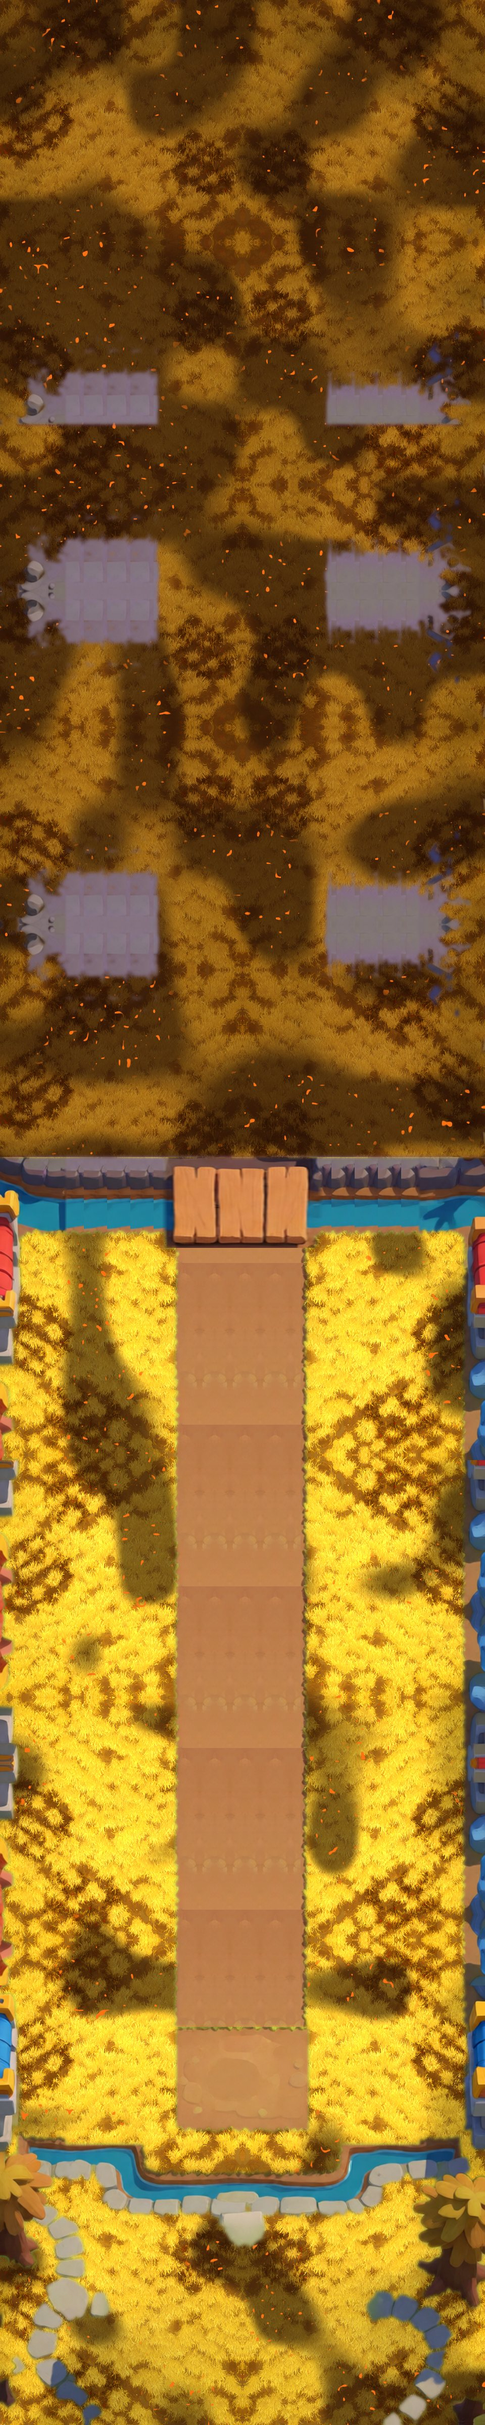
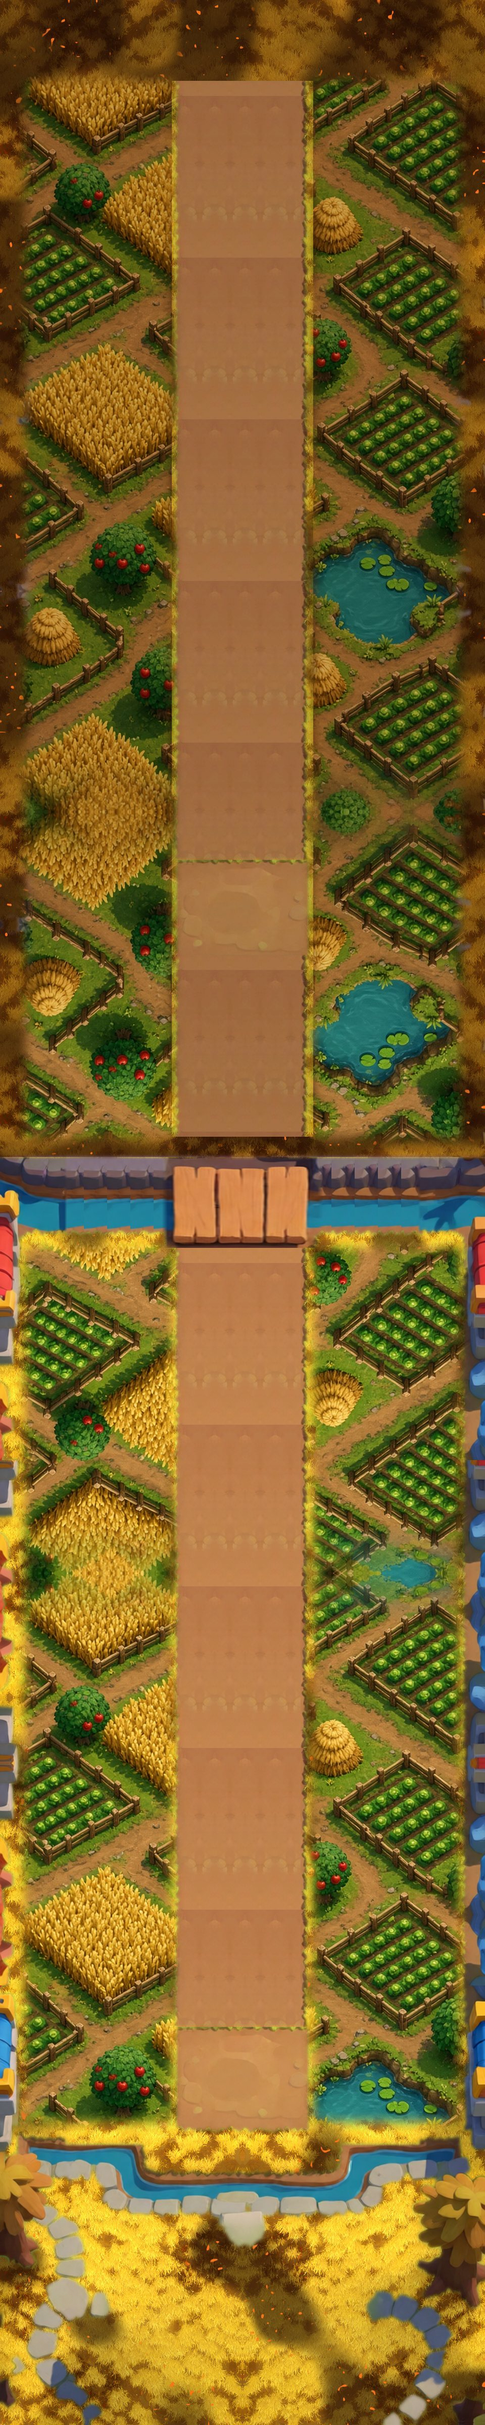
beta v28: farm map art, medieval barns, guarded-barn mechanic by difficulty; cloud save client

diff --git a/beta/cloud.js b/beta/cloud.js
@@ -1,0 +1,170 @@
+// Royal Blight — optional Account / Cloud Save (v27+). The local save (localStorage) stays the source of truth;
+// the cloud is only a backup/sync target while signed in. Everything here is best-effort and works offline.
+(function () {
+  'use strict';
+  // ======== the ONE place to configure the API ========
+  const RB_API_BASE = window.RB_API_BASE_OVERRIDE || 'https://xmg.xstreamflex.com/rbapi';
+  // =====================================================
+  const KEY = 'rb-cloud', AUTOSYNC_MS = 4000;
+  const st = (() => { try { return JSON.parse(localStorage.getItem(KEY)) || {}; } catch (e) { return {}; } })();
+  // st: { token, user, version (last synced cloud version), syncedHash, lastSync, localTs, conflict }
+  const save = () => { try { localStorage.setItem(KEY, JSON.stringify(st)); } catch (e) {} };
+  const S = () => window.Story;
+  const h32 = s => { let h = 0x811c9dc5; for (let i = 0; i < s.length; i++) { h ^= s.charCodeAt(i); h = Math.imul(h, 16777619); } return (h >>> 0).toString(36); };
+  const localStr = () => (S() && S().exportSave) ? S().exportSave() : null;
+  const isFresh = () => { const sv = S() && S().save && S().save(); return !sv || (!sv.xp && !sv.gold && !Object.keys(sv.missions || {}).length); };
+  const dirty = () => { const l = localStr(); return !!l && h32(l) !== st.syncedHash; };
+  let status = st.token ? 'idle' : 'signedout', busy = false, timer = null, msg = '';
+
+  async function api(method, path, body) {
+    const r = await fetch(RB_API_BASE + '/index.php?r=' + path, {
+      method, mode: 'cors', cache: 'no-store', credentials: 'omit',
+      headers: Object.assign({ 'Content-Type': 'application/json' }, st.token ? { Authorization: 'Bearer ' + st.token } : {}),
+      body: body ? JSON.stringify(body) : undefined });
+    let j = null; try { j = await r.json(); } catch (e) {}
+    if (r.status === 401 && st.token && !/^(login|register)$/.test(path)) { signedOut('Session expired — please sign in again.'); }
+    return { status: r.status, j: j || { ok: false, error: 'bad_response' } };
+  }
+  function signedOut(m) { delete st.token; delete st.user; st.version = 0; st.syncedHash = null; st.conflict = null; save(); status = 'signedout'; msg = m || ''; render(); }
+  function markSynced(version, ts) { st.version = version; st.syncedHash = h32(localStr() || ''); st.lastSync = Date.now(); st.localTs = ts; st.conflict = null; save(); status = 'synced'; }
+  function applyCloud(sv) {
+    const r = S().importSave(sv.data);
+    if (r !== true) { status = 'error'; msg = 'Cloud save could not be loaded: ' + r; return false; }
+    markSynced(sv.version, sv.updatedAt);
+    try { const scr = document.getElementById('story-screen') || document.getElementById('screen-story'); if (scr && !scr.classList.contains('hidden')) S().openMap(); } catch (e) {}
+    return true;
+  }
+  async function push(force) {
+    const data = localStr(); if (!data) return;
+    const ts = st.localTs || Date.now();
+    const { status: s, j } = await api('PUT', 'save', { data, baseVersion: st.version | 0, updatedAt: ts, force: !!force });
+    if (s === 200) { markSynced(j.save.version, j.save.updatedAt); if (j.conflict) msg = 'Replaced an older cloud copy (newest wins).'; }
+    else if (s === 409) { st.conflict = j.save; save(); status = 'conflict'; }
+    else throw new Error(j.error || 'http ' + s);
+  }
+
+  // Main sync step. Decides pull / push / conflict from (cloud version vs. last synced version) x (local dirty?).
+  async function sync(reason) {
+    if (!st.token || busy || !S()) return render();
+    if (!navigator.onLine) { status = 'offline'; return render(); }
+    busy = true; status = 'syncing'; render();
+    try {
+      const g = await api('GET', 'save');
+      if (g.status !== 200) throw new Error(g.j.error || 'http ' + g.status);
+      const cloud = g.j.save, ld = dirty();
+      if (!cloud) await push(false);
+      else if (cloud.version === (st.version | 0)) { if (ld) await push(false); else status = 'synced', st.lastSync = Date.now(), save(); }
+      else if (!ld || (isFresh() && !st.syncedHash)) applyCloud(cloud);           // cloud moved on, local untouched: pull
+      else if (h32(cloud.data) === h32(localStr())) markSynced(cloud.version, cloud.updatedAt);
+      else { st.conflict = cloud; save(); status = 'conflict'; }                     // both changed: ask the player
+    } catch (e) { status = navigator.onLine ? 'error' : 'offline'; msg = status === 'error' ? 'Sync failed (' + (e.message || 'network') + '). Your local save is safe.' : ''; }
+    busy = false; render();
+  }
+  async function resolve(choice) {   // 'local' | 'cloud' | 'newest'
+    const c = st.conflict; if (!c) return;
+    if (choice === 'newest') choice = (st.localTs || 0) >= (c.updatedAt || 0) ? 'local' : 'cloud';
+    busy = true; status = 'syncing'; render();
+    try { if (choice === 'cloud') applyCloud(c); else { st.version = c.version; await push(true); } msg = choice === 'cloud' ? 'Loaded the cloud save.' : 'Uploaded this device\'s save.'; }
+    catch (e) { status = 'error'; msg = 'Sync failed. Your local save is safe.'; }
+    busy = false; render();
+  }
+
+  // ------------------------------------------------------------ hooks: local save changes -> debounced autosync
+  function onLocalChange() {
+    if (!dirty()) return;   // e.g. our own cloud import
+    st.localTs = Date.now(); save();
+    if (!st.token) return;
+    status = 'pending'; render();
+    clearTimeout(timer); timer = setTimeout(() => sync('autosave'), AUTOSYNC_MS);
+  }
+  function wrapPersist() {   // story.js calls persist() via setDiff / mission end; we observe localStorage writes of its key
+    const orig = Storage.prototype.setItem;
+    Storage.prototype.setItem = function (k, v) { const r = orig.apply(this, arguments); if (this === window.localStorage && k === 'royalBlight.story') setTimeout(onLocalChange, 0); return r; };
+  }
+
+  // ------------------------------------------------------------ UI
+  const esc = s => String(s == null ? '' : s).replace(/[&<>"']/g, c => ({ '&': '&amp;', '<': '&lt;', '>': '&gt;', '"': '&quot;', "'": '&#39;' })[c]);
+  const ago = t => { if (!t) return 'never'; const s = Math.round((Date.now() - t) / 1000); return s < 60 ? 'just now' : s < 3600 ? Math.round(s / 60) + ' min ago' : s < 86400 ? Math.round(s / 3600) + ' h ago' : new Date(t).toLocaleDateString(); };
+  const LABEL = { signedout: 'Not signed in — saves stay on this device', idle: 'Signed in', syncing: 'Syncing…', synced: 'Synced ✓', pending: 'Changes waiting to sync', offline: 'Offline — will sync when back online', error: 'Sync error', conflict: '⚠ Cloud and device saves differ' };
+  const btn = (id, txt, cls) => `<button id="${id}" class="w-full py-2 rounded-lg font-black text-xs uppercase active:scale-95 ${cls || 'bg-slate-700 text-slate-100'}">${txt}</button>`;
+  const inp = (id, type, ph, ac) => `<input id="${id}" type="${type}" placeholder="${ph}" autocomplete="${ac}" class="w-full px-3 py-2 rounded-lg bg-slate-900 border border-slate-600 text-slate-100 text-sm" maxlength="200">`;
+  let modal = null;
+  function render() {
+    const badge = document.getElementById('cloud-summary');
+    if (badge) badge.textContent = st.token ? '(' + (LABEL[status] || '').replace(/ —.*/, '') + ')' : '(off)';
+    if (!modal || modal.classList.contains('hidden')) return;
+    const u = st.user || {}, c = st.conflict;
+    let html = `<div class="text-[11px] font-bold ${status === 'conflict' || status === 'error' ? 'text-amber-300' : 'text-slate-300'}">${esc(LABEL[status] || status)}</div>`;
+    if (msg) html += `<div class="text-[10px] text-slate-400">${esc(msg)}</div>`;
+    if (!st.token) {
+      html += inp('cl-login', 'text', 'Email or username', 'username') + inp('cl-pass', 'password', 'Password (8+ characters)', 'current-password') +
+        `<div class="grid grid-cols-2 gap-2">${btn('cl-signin', 'Sign in', 'bg-amber-500 text-slate-950')}${btn('cl-signup', 'Create account')}</div>` +
+        `<p class="text-[10px] text-slate-400 leading-snug">Optional. Back up your Story progress and continue on another device. Without an account everything stays on this device.</p>`;
+    } else {
+      html += `<div class="text-xs text-slate-100">Account: <b>${esc(u.email || u.username || 'device account')}</b></div>` +
+        `<div class="text-[10px] text-slate-400">Last sync: ${esc(ago(st.lastSync))} · cloud version ${st.version | 0}</div>`;
+      if (c) html += `<div class="rounded-lg border border-amber-500/60 p-2 space-y-2"><div class="text-[10px] text-slate-200 leading-snug">This device: changed ${esc(ago(st.localTs))}.<br>Cloud: saved ${esc(ago(c.updatedAt))} (version ${c.version}).</div>` +
+        btn('cl-newest', 'Keep newest', 'bg-amber-500 text-slate-950') + `<div class="grid grid-cols-2 gap-2">${btn('cl-keeplocal', 'Keep this device')}${btn('cl-keepcloud', 'Keep cloud')}</div></div>`;
+      else html += btn('cl-sync', 'Sync now', 'bg-amber-500 text-slate-950');
+      html += `<details class="text-left"><summary class="text-[10px] text-slate-400 cursor-pointer">Account options</summary><div class="space-y-2 mt-2">` +
+        inp('cl-cur', 'password', 'Current password', 'current-password') + inp('cl-new', 'password', 'New password', 'new-password') + btn('cl-chpw', 'Change password') +
+        btn('cl-logout', 'Sign out (keeps local save)') + btn('cl-del', 'Delete account + cloud save', 'bg-red-800 text-white') + `</div></details>`;
+    }
+    modal.querySelector('#cl-body').innerHTML = html;
+    const on = (id, f) => { const e = modal.querySelector('#' + id); if (e) e.onclick = f; };
+    const val = id => (modal.querySelector('#' + id) || {}).value || '';
+    const auth = async path => {
+      const login = val('cl-login').trim(), password = val('cl-pass');
+      if (!login || password.length < 8) { msg = 'Enter email/username and a password of 8+ characters.'; return render(); }
+      if (!navigator.onLine) { msg = 'You are offline.'; return render(); }
+      const body = path === 'login' ? { login, password } : (login.includes('@') ? { email: login, password } : { username: login, password });
+      try {
+        const { status: s, j } = await api('POST', path, body);
+        if (j.ok) { st.token = j.token; st.user = j.user; st.version = 0; st.syncedHash = null; save(); msg = ''; status = 'idle'; sync('signin'); }
+        else msg = ({ invalid_credentials: 'Wrong email/username or password.', account_exists: 'That account already exists — sign in instead.', rate_limited: 'Too many attempts, try again later.', invalid_username: 'Username: 3-24 letters, numbers, _ . -', invalid_email: 'That email looks invalid.', invalid_password: 'Password must be 8+ characters.' })[j.error] || 'Error: ' + j.error;
+      } catch (e) { msg = 'Could not reach the server.'; }
+      render();
+    };
+    on('cl-signin', () => auth('login')); on('cl-signup', () => auth('register'));
+    on('cl-sync', () => sync('manual'));
+    on('cl-newest', () => resolve('newest')); on('cl-keeplocal', () => resolve('local')); on('cl-keepcloud', () => resolve('cloud'));
+    on('cl-logout', async () => { try { await api('POST', 'logout'); } catch (e) {} signedOut('Signed out. Your progress stays on this device.'); });
+    on('cl-chpw', async () => {
+      try { const { j } = await api('POST', 'password', { currentPassword: val('cl-cur'), newPassword: val('cl-new') });
+        msg = j.ok ? 'Password changed (other devices signed out).' : ({ invalid_credentials: 'Current password is wrong.', invalid_password: 'New password must be 8+ characters.' })[j.error] || 'Error: ' + j.error; } catch (e) { msg = 'Could not reach the server.'; }
+      render();
+    });
+    on('cl-del', async () => {
+      if (!confirm('Delete your account and cloud save? Your progress on THIS device is kept.')) return;
+      const password = st.user && st.user.anonymous ? '' : prompt('Enter your password to confirm:');
+      if (password === null) return;
+      try { const { j } = await api('DELETE', 'account', { password, confirm: 'DELETE' }); if (j.ok) return signedOut('Account deleted. Local save kept.'); msg = j.error === 'invalid_credentials' ? 'Wrong password.' : 'Error: ' + j.error; } catch (e) { msg = 'Could not reach the server.'; }
+      render();
+    });
+  }
+  function buildUI() {
+    const settings = document.getElementById('modal-settings'), done = document.getElementById('settings-done');
+    if (!settings || !done) return;
+    const b = document.createElement('button');
+    b.id = 'btn-cloud'; b.className = 'w-full max-w-xs mt-3 py-2 rounded-xl bg-slate-700 text-slate-100 font-black text-xs uppercase tracking-wider active:scale-95';
+    b.innerHTML = '☁ Account / Cloud Save <span id="cloud-summary" class="normal-case font-bold text-[10px] text-slate-300"></span>';
+    settings.insertBefore(b, done);
+    modal = document.createElement('div');
+    modal.id = 'modal-cloud'; modal.className = 'hidden absolute inset-0 z-[57] bg-black/90 backdrop-blur-md flex flex-col items-center justify-center p-6 text-center';
+    modal.innerHTML = '<h2 class="text-2xl font-black text-amber-300 uppercase tracking-wider mb-3">Cloud Save</h2>' +
+      '<div id="cl-body" class="w-full max-w-xs bg-slate-800/90 rounded-xl p-3 border border-slate-700 space-y-2 text-left"></div>' +
+      '<button id="cloud-done" class="w-full max-w-xs mt-4 py-3 rounded-xl bg-amber-500 text-slate-950 font-black text-sm uppercase">Done</button>';
+    settings.parentNode.appendChild(modal);
+    b.onclick = () => { modal.classList.remove('hidden'); msg = ''; render(); sync('open'); };
+    modal.querySelector('#cloud-done').onclick = () => modal.classList.add('hidden');
+    render();
+  }
+
+  window.Cloud = { sync, resolve, state: () => Object.assign({ status }, st, { token: st.token ? '***' : null }), API: RB_API_BASE };
+  wrapPersist();
+  const init = () => { buildUI(); if (st.token) sync('startup'); };
+  if (document.readyState === 'loading') document.addEventListener('DOMContentLoaded', init); else init();
+  window.addEventListener('online', () => sync('online'));
+  window.addEventListener('offline', () => { if (st.token) { status = 'offline'; render(); } });
+  document.addEventListener('visibilitychange', () => { if (document.visibilityState === 'visible' && st.token && (dirty() || Date.now() - (st.lastSync || 0) > 60000)) sync('resume'); });
+})();

diff --git a/beta/story.js b/beta/story.js
@@ -5,14 +5,14 @@
   'use strict';
   // ------------------------------------------------------------------ SAVE (localStorage, versioned)
   const SAVE_KEY = 'royalBlight.story', SAVE_V = 2;   // v27: v2 = illustrated map + new color rules (mapV)
-  const freshSave = () => ({ v: SAVE_V, gold: 0, xp: 0, missions: {}, unlocks: ['pawn:sword', 'archer:long', 'worker', 'turret'], seen: [], created: Date.now(), mapV: 2 });
+  const freshSave = () => ({ v: SAVE_V, gold: 0, xp: 0, missions: {}, unlocks: ['pawn:sword', 'archer:long', 'worker', 'turret'], seen: [], created: Date.now(), mapV: 2, diff: 'normal' });
   function migrate(s) {
     if (!s || typeof s !== 'object') return freshSave();
     const f = freshSave();
     const out = { v: SAVE_V, gold: Math.max(0, Math.floor(+s.gold || 0)), xp: Math.max(0, Math.floor(+s.xp || 0)),
       missions: {}, unlocks: Array.isArray(s.unlocks) ? s.unlocks.filter(x => typeof x === 'string').slice(0, 500) : f.unlocks,
       seen: Array.isArray(s.seen) ? s.seen.filter(x => typeof x === 'string').slice(0, 500) : [], created: +s.created || Date.now(),
-      mapV: 2, migratedFrom: (s.v | 0) < 2 ? (s.v | 0) || 1 : (s.migratedFrom || 0) };   // v1 -> v2: progress is derived from wins, so nothing is lost
+      diff: ['easy', 'normal', 'hard'].includes(s.diff) ? s.diff : 'normal', mapV: 2, migratedFrom: (s.v | 0) < 2 ? (s.v | 0) || 1 : (s.migratedFrom || 0) };   // v1 -> v2: progress is derived from wins, so nothing is lost
     f.unlocks.forEach(u => { if (!out.unlocks.includes(u)) out.unlocks.push(u); });
     if (s.missions && typeof s.missions === 'object') for (const [id, m] of Object.entries(s.missions)) {
       if (!/^[A-Z0-9_]{2,8}$/.test(id) || !m) continue;
@@ -81,7 +81,7 @@
     M04: { region: 'eastmarch', name: 'Recapture the Farms', type: 'ATK + CUR', map: 'farmland', gold: 180, reward: ['G2', 'X1'], unlock: ['bonus:worker_east'],
       ai: { level: 'normal', strat: 'turtle', income: 0.85 },
       brief: 'Take back the scorched farmland one farmstead at a time. Push into each farm and hold it to replant it; every held farm pays bonus gold. Watch for fire-lines flaring across the rows.',
-      objectives: [{ k: 'hold', name: 'Farmsteads', secs: 14, mode: 'sequence', pay: 60, zones: [{ y: 1420, h: 80, name: 'South farm' }, { y: 1110, h: 80, name: 'Mill farm' }, { y: 800, h: 80, name: 'East farm' }] }],
+      objectives: [{ k: 'hold', name: 'Farmsteads', guards: true, secs: 14, mode: 'sequence', pay: 60, zones: [{ y: 1420, h: 80, name: 'South farm' }, { y: 1110, h: 80, name: 'Mill farm' }, { y: 800, h: 80, name: 'East farm' }] }],
       hazards: [{ k: 'fireline', every: 16, warn: 2.2, dur: 4, dps: 14, h: 46 }], noNexusWin: true, timeLimit: 900,
       stars: ['Recapture all 3 farms', 'Nexus above 50%', 'Hold all 3 farms at the same time'],
       before: [['Vesper', 'Take the south farm first. Felix never guards it.']], after: [['Farmer', '(presses one seed into the ash)'], ['Rufus', 'That\u2019s how it starts. One field at a time.']], cut: ['ch1_m04_fields_reclaimed'] },
@@ -184,9 +184,32 @@
     setTimeout(() => toast(m.name.toUpperCase(), '#fde68a'), 500);
     return true;
   };
+  // v28 guarded barns: enemy pawns stand guard at every farmstead. Felix's pawns muster at HALF rate while the
+  // guards hold; each guard killed raises the enemy pawn rate one step, back to full when all are down.
+  // Guards per farm by difficulty: Easy 1, Normal 2, Hard 3 (step = 50% / total guards).
+  const GUARDS = { easy: 1, normal: 2, hard: 3 };
+  function spawnBarnGuards(o) {
+    const R = S.R, per = GUARDS[SAVE.diff] || 2; R.guards = []; R.barnRate = 0.5; R.pawnAcc = 0; R.guardsDown = 0;
+    o.zones.forEach((z, zi) => { for (let g = 0; g < per; g++) {
+      const u = spawnUnit('pawn', 'red', 'C', 0); u.x = LANE_X + (g - (per - 1) / 2) * 34; u.y = z.y - 10 + (g % 2) * 14;
+      u.speed = 0; u.guard = zi; u.variant = 'shield'; u.maxHp = u.hp = Math.round(u.hp * 1.8); u.lagHp = u.hp; u.atk *= 1.2; u.resist = Object.assign({}, u.resist, { ranged: Math.max(u.resist.ranged || 0, 0.3) }); R.guards.push(u); } });
+    const inc = { easy: 1.0, normal: 1.3, hard: 1.6 }[SAVE.diff] || 1.3;   // v28: barn missions scale the enemy economy with difficulty
+    AI_LEVELS.story.income *= inc; if (SAVE.diff === 'hard') AI_LEVELS.story.think = AI_LEVELS.hard.think;
+  }
+  S.pawnsFor = function (team) {           // pawns per wave (index.html triggerWave hook)
+    const R = S.R; if (!R || team !== 'red' || R.barnRate == null) return 4;
+    R.pawnAcc += 4 * R.barnRate; const n = Math.floor(R.pawnAcc + 1e-6); R.pawnAcc -= n; return n;
+  };
+  function tickGuards() {
+    const R = S.R; if (!R.guards) return;
+    const down = R.guards.filter(u => u.dead).length;
+    if (down > R.guardsDown) { R.guardsDown = down; R.barnRate = 0.5 + 0.5 * down / R.guards.length;
+      toast(down === R.guards.length ? 'Last guard down! Felix musters at full strength.' : `Guard down! Felix musters faster (${Math.round(R.barnRate * 100)}%)`, '#fb923c'); }
+  }
   function setupObjective(o, i) {
     const R = S.R, st = R.obj[i] = { o, done: false, failed: false };
-    if (o.k === 'hold') { st.idx = 0; st.held = o.zones.map(() => 0); st.owned = o.zones.map(() => false); st.loseT = o.zones.map(() => 0); st.allAtOnce = false; }
+    if (o.k === 'hold') { st.idx = 0; st.held = o.zones.map(() => 0); st.owned = o.zones.map(() => false); st.loseT = o.zones.map(() => 0); st.allAtOnce = false;
+      if (o.guards) spawnBarnGuards(o); }
     if (o.k === 'defend') { st.enemyT = 0; }
     if (o.k === 'beacons') { st.lit = o.ys.map(() => false); }
     if (o.k === 'evac') { st.spawned = 0; st.saved = 0; st.lost = 0; st.next = 3; }
@@ -224,6 +247,7 @@
     for (const st of Object.values(R.obj)) tickObjective(st, dt, B, Rd);
     (m.hazards || []).forEach((h, i) => tickHazard(h, i, dt));
     if (R.boss) tickBoss(dt);
+    tickGuards();
     if ((R.hudT = (R.hudT || 0) - dt) <= 0) { R.hudT = 0.25; S.renderHud(); }
   };
   function tickObjective(st, dt, B, Rd) {
@@ -422,6 +446,8 @@
     for (const st of Object.values(R.obj)) {
       const o = st.o;
       if (o.k === 'hold') o.zones.forEach((z, i) => {
+        { const img = loadSprite(st.owned[i] ? 'barn' : 'barn_burnt'), bx = i % 2 ? LANE_X - LANE_HALF_W - 70 : LANE_X + LANE_HALF_W + 70;   // v28 barns
+          if (img) c.drawImage(img, bx - 62, z.y - 92, 124, 124); }
         const active = o.mode !== 'sequence' || i <= st.idx || st.owned[i];
         c.fillStyle = st.owned[i] ? 'rgba(74,222,128,0.22)' : active ? 'rgba(250,204,21,0.18)' : 'rgba(148,163,184,0.10)';
         c.fillRect(LANE_X - LANE_HALF_W - 40, z.y - z.h, (LANE_HALF_W + 40) * 2, z.h * 2);
@@ -557,7 +583,10 @@
       <div class="text-[10px] font-black text-amber-300 uppercase">Stars</div><ul class="text-xs text-slate-200 mb-2">${m.stars.map((s, i) => `<li>${rec && rec.starSet[i] ? '\u2B50' : '\u2606'} ${esc(s)}</li>`).join('')}</ul>
       ${m.tips ? `<div class="text-[10px] font-black text-sky-300 uppercase">Drill notes</div><ul class="list-disc ml-4 text-[11px] text-slate-300 mb-2">${m.tips.map(t => `<li>${esc(t)}</li>`).join('')}</ul>` : ''}
       <div class="text-[11px] text-slate-300">Reward: <b class="text-amber-300">${G[m.reward[0]]}g</b> + <b class="text-sky-300">${X[m.reward[1]]} XP</b>${rec && rec.wins ? ' (replay: half, + new stars)' : ''}${m.cards ? ' \u00B7 Limited army: ' + m.cards.join(', ') : ''}</div>`;
-    const k = await showPanel(`${id}: ${esc(m.name)}`, html, [['Back', 'back'], ['\u2694 Start', 'go']]);
+    const guarded = (m.objectives || []).some(o => o.guards);
+    const dsel = guarded ? `<div class="text-[10px] font-black text-amber-300 uppercase mt-2">Difficulty \u00B7 barn guards per farm</div><div class="text-xs text-slate-200">${['easy', 'normal', 'hard'].map(d => d === SAVE.diff ? `<b class="text-amber-300">[${d} ${GUARDS[d]}]</b>` : d + ' ' + GUARDS[d]).join(' \u00B7 ')}</div><p class="text-[10px] text-slate-400">Felix musters pawns at half rate while his barn guards stand; each guard you kill raises it.</p>` : '';
+    const k = await showPanel(`${id}: ${esc(m.name)}`, html + dsel, guarded ? [['Back', 'back'], ['Easy', 'd:easy'], ['Normal', 'd:normal'], ['Hard', 'd:hard'], ['\u2694 Start', 'go']] : [['Back', 'back'], ['\u2694 Start', 'go']]);
+    if (k && k.startsWith('d:')) { SAVE.diff = k.slice(2); persist(); return S.brief(id); }
     if (k === 'go') { $('modal-story').classList.add('hidden'); S.start(id); }
   };
   function objText(o, m) {
@@ -601,6 +630,7 @@
       if (o.k === 'evac') rows.push(`${ck} Farmers safe ${st.saved}/${o.count} \u00B7 lost ${st.lost}/${o.lossMax}`);
       if (o.k === 'intercept') rows.push(`${ck} Wagons destroyed ${st.killed}/${o.need} \u00B7 arrived ${st.arrived}/${o.count - o.need}`);
       if (o.k === 'escort') rows.push(`${ck} Wagons delivered ${st.arrived}/${o.need} \u00B7 lost ${st.killed}`);
+      if (o.k === 'hold' && R.guards) rows.push(`\u{1F6E1} Barn guards ${R.guards.length - R.guardsDown}/${R.guards.length} \u00B7 enemy muster ${Math.round(R.barnRate * 100)}%`);
       if (o.k === 'hold') rows.push(`${ck} Farms held ${st.owned.filter(Boolean).length}/${o.zones.length}` + (st.idx < o.zones.length && !st.owned[st.idx] ? ` \u00B7 ${o.zones[st.idx].name} ${Math.round(100 * st.held[st.idx] / o.secs)}%` : ''));
       if (o.k === 'defend') rows.push(`${ck} Hold ${o.zone.name} ${fmt(st.left)} \u00B7 enemy ${Math.round(st.enemyT)}/${o.maxEnemy}s`);
       if (o.k === 'rescue') rows.push(`${ck} Free ${o.cages.map(c => c.name).join(', ')}`);
@@ -616,7 +646,7 @@
   };
   const fmt = s => Math.floor(s / 60) + ':' + String(Math.floor(s % 60)).padStart(2, '0');
 
-  S.save = () => SAVE; S.missions = M; S.regions = REGIONS; S.regionColor = regionColor; S.exportSave = exportSave; S.importSave = importSave;
+  S.save = () => SAVE; S.setDiff = d => { SAVE.diff = d; persist(); }; S.missions = M; S.regions = REGIONS; S.regionColor = regionColor; S.exportSave = exportSave; S.importSave = importSave;
   S.reset = () => { SAVE = freshSave(); persist(); };
   S.setSave = o => { SAVE = migrate(o); persist(); };
   if (document.readyState === 'loading') document.addEventListener('DOMContentLoaded', injectUI); else injectUI();

diff --git a/beta/index.html b/beta/index.html
@@ -11,7 +11,7 @@
   <link rel="manifest" href="manifest.json">
   <link rel="apple-touch-icon" href="assets/icons/apple-touch-icon.png">
   <link rel="icon" type="image/png" sizes="192x192" href="assets/icons/icon-192.png">
-  <title>Royal Blight BETA v27</title>
+  <title>Royal Blight BETA v28</title>
   <!-- Tailwind CSS CDN -->
   <script src="assets/tailwind.js"></script>
   <!-- Google Fonts: Fredoka for chunky mobile strategy UI, Inter for crisp stats -->
@@ -303,7 +303,7 @@
     <div id="modal-menu" class="absolute inset-0 z-50 bg-black/80 backdrop-blur-md flex flex-col items-center justify-center p-6 text-center">
       <div class="text-5xl mb-2">👑 ⚔ 💀</div>
       <h1 class="text-3xl font-black text-amber-400 uppercase tracking-wider">Royal Blight</h1>
-      <p class="text-slate-300 text-xs mb-6">King vs Necromancer &middot; Tug of War &middot; <span class="text-amber-300 font-black">BETA v27</span></p>
+      <p class="text-slate-300 text-xs mb-6">King vs Necromancer &middot; Tug of War &middot; <span class="text-amber-300 font-black">BETA v28</span></p>
       <div class="w-full max-w-xs bg-slate-800/90 rounded-xl p-4 border border-slate-700 mb-4">
         <div class="text-xs font-black text-slate-200 uppercase tracking-wider mb-2">Play vs Computer</div>
         <div class="grid grid-cols-2 gap-2 mb-3">
@@ -880,7 +880,7 @@
       Object.values(MAPS).forEach(m => loadSprite(m.bg));
       VARIANT_ART.forEach(n => { loadSprite(n); loadSprite(n + '_back'); });
       ['knight','archer','wizard','brute','worker','cavalier'].forEach(k => { loadSprite(k + '_green'); loadSprite(k + '_green_back'); });   // v26 Green Army
-      loadSprite('felix_boss'); loadSprite('felix_boss_back');
+      loadSprite('felix_boss'); loadSprite('felix_boss_back'); loadSprite('barn'); loadSprite('barn_burnt');
     }, 300));
     loadSprite('cavalier_blue'); loadSprite('cavalier_blue_back'); loadSprite('acolyte_red'); loadSprite('acolyte_red_back');
     ['turret_blue', 'turret_red', 'turret_pad', 'mine_safe', 'mine_mid', 'mine_far'].forEach(loadSprite);
@@ -1153,7 +1153,7 @@
       sound.playHorn();
       ['blue', 'red'].forEach(team => {
         const q = state.spawnQ[team];
-        q.push('pawn', 'pawn', 'pawn', 'pawn');
+        { const np = (window.Story && Story.active && Story.pawnsFor) ? Story.pawnsFor(team) : 4; for (let i = 0; i < np; i++) q.push('pawn'); }   // v28: story can throttle pawns (guarded barns)
         const due = { archers: 0, wizards: 0, brutes: 0 };
         state.orders[team].forEach(o => { if (o.next === state.waveCount) { due[o.k]++; o.next += o.every; } });
         for (let i = 0; i < due.brutes; i++) q.push('brute');
@@ -3890,9 +3890,10 @@
   <script src="assets/lib/peerjs.min.js"></script>
   <script src="mp.js"></script>
   <script src="story.js"></script>
+  <script src="cloud.js"></script>
   <script>
     // v24.1 update flow: network-first SW, update checks on load/focus, version.json poll, one guarded reload.
-    window.APP_VERSION = 'v27';
+    window.APP_VERSION = 'v28';
     (function () {
       const busy = () => { try { return !!(state.started && !state.gameOver); } catch (e) { return false; } };
       let shown = false;

diff --git a/beta/sw.js b/beta/sw.js
@@ -1,7 +1,7 @@
 // Bump CACHE_VERSION whenever any file changes so phones pick up the update.
-const CACHE_VERSION = 'royal-blight-beta-v27';   // BETA build (/royal-blight/beta/): own cache namespace
+const CACHE_VERSION = 'royal-blight-beta-v27-cloud1';   // BETA build (/royal-blight/beta/): own cache namespace
 const CORE = [
-  './', './index.html', './manifest.json', './mp.js', './story.js', './assets/lib/qrcode.js', './assets/lib/jsQR.js', './assets/lib/peerjs.min.js',
+  './', './index.html', './manifest.json', './mp.js', './story.js', './cloud.js', './assets/lib/qrcode.js', './assets/lib/jsQR.js', './assets/lib/peerjs.min.js',
   './assets/tailwind.js', './assets/kingdom_map.jpg', './assets/fonts/fonts.css',
   './assets/fonts/f0.woff2',
   './assets/fonts/f1.woff2',
@@ -31,12 +31,12 @@ const OPTIONAL = ['arena_bg', 'nexus_king', 'nexus_king_back', 'nexus_necromance
   // v26: Green Army (story) + Felix boss + heroes
   ['knight','knight_mace','knight_hammer','knight_shield','archer','archer_long','archer_flame','archer_hunting','brute','brute_light','brute_heavy','brute_spiked',
    'wizard','wizard_priest','wizard_banner','worker','cavalier'].flatMap(k => [k + '_green', k + '_green_back'])
-    .concat(['felix_boss', 'felix_boss_back', 'cavalier_blue', 'cavalier_blue_back', 'acolyte_red', 'acolyte_red_back'])
+    .concat(['felix_boss', 'felix_boss_back', 'barn', 'barn_burnt', 'cavalier_blue', 'cavalier_blue_back', 'acolyte_red', 'acolyte_red_back'])
 ).map(n => './assets/' + n + (/^arena_/.test(n) ? '.jpg' : '.png'));
 
 // v24.1: app shell is NETWORK-FIRST (cache only as offline fallback) so a new deploy shows on the next load;
 // images/fonts/libs stay cache-first. skipWaiting + clients.claim make a new worker take over at once.
-const NET_FIRST = /\/(index\.html|sw\.js|story\.js|mp\.js|manifest\.json|version\.json)?$/;
+const NET_FIRST = /\/(index\.html|sw\.js|story\.js|cloud\.js|mp\.js|manifest\.json|version\.json)?$/;
 self.addEventListener('install', e => {
   self.skipWaiting();
   e.waitUntil(caches.open(CACHE_VERSION).then(async c => {
